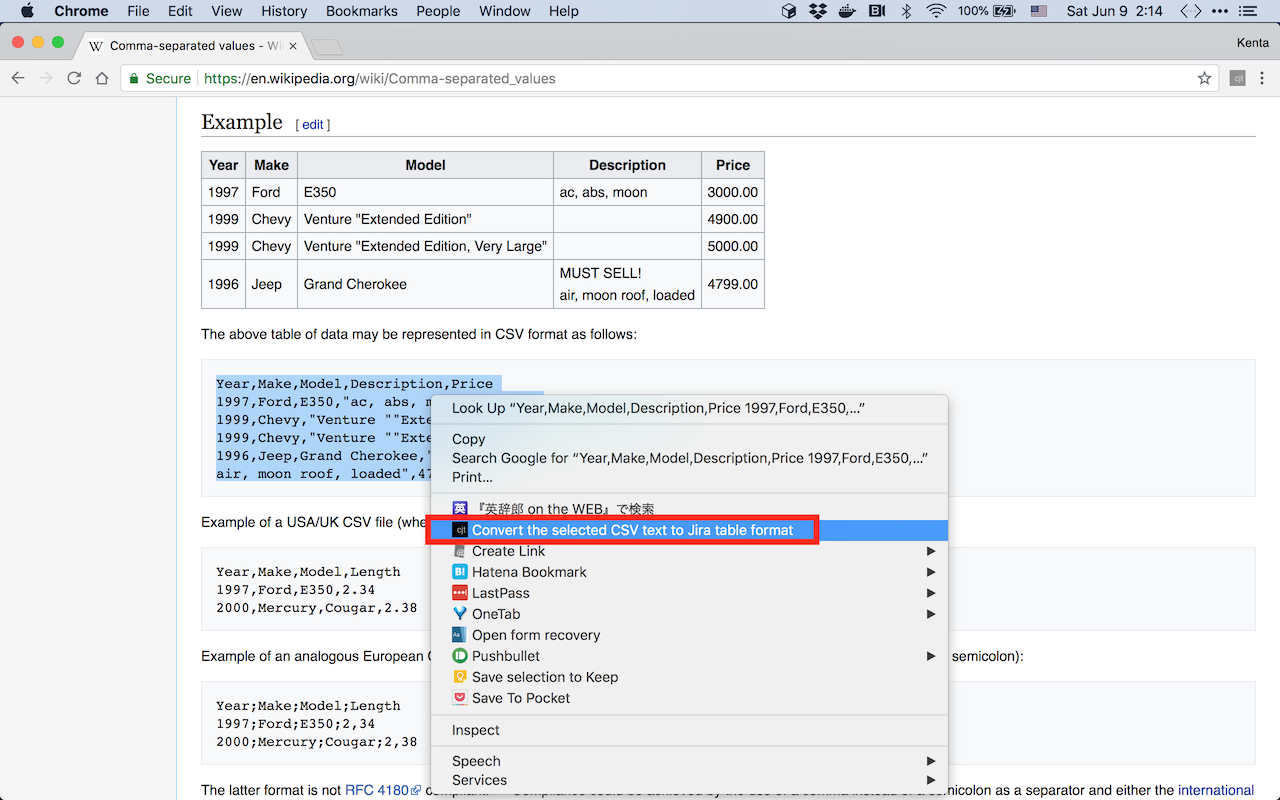
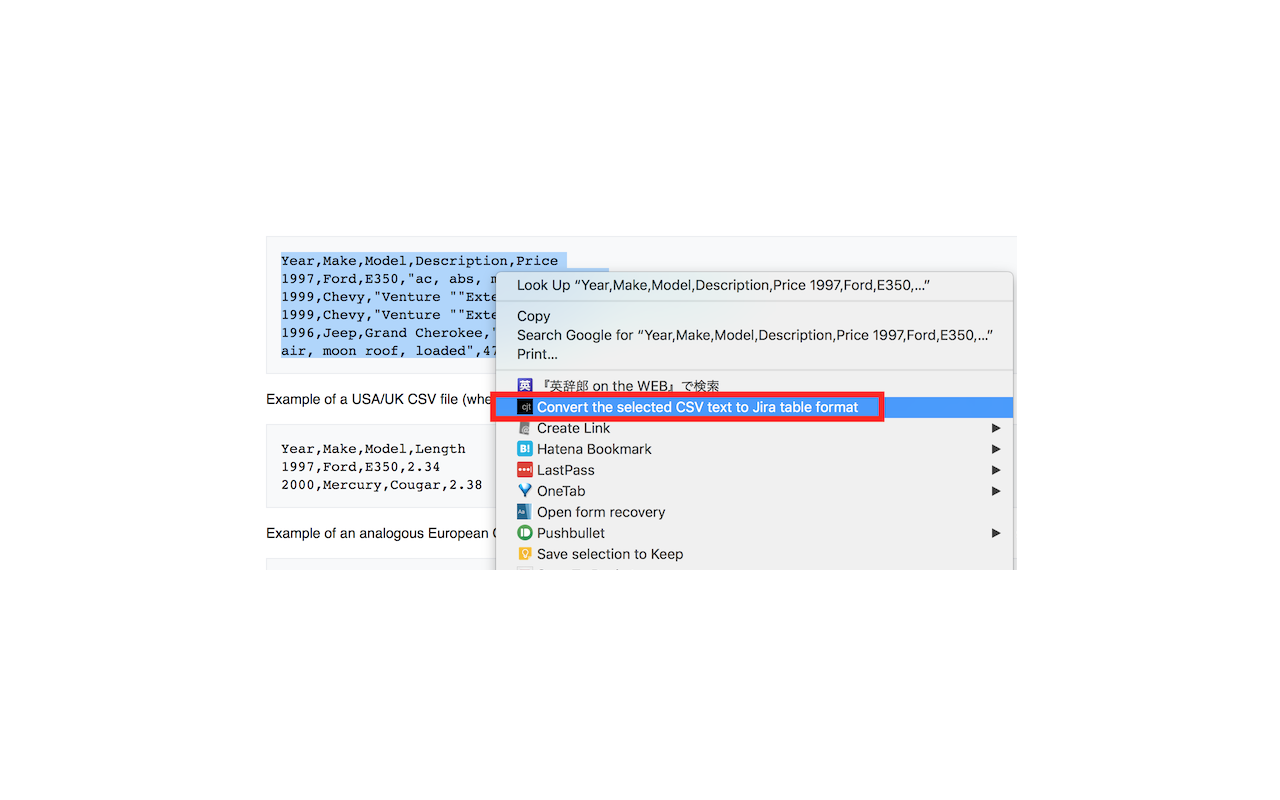
Updated readme

diff --git a/README.md b/README.md
@@ -1,9 +1,12 @@
 # cjt-crx
 [![Build Status](https://travis-ci.org/announce/cjt-crx.svg?branch=master)](https://travis-ci.org/announce/cjt-crx)
+[![Chrome Web Store](https://img.shields.io/chrome-web-store/v/nimelepbpejjlbmoobocpfnjhihnpked.svg)](https://chrome.google.com/webstore/detail/pagmnllnggjajagmlelanjlbompjelmd/)
 
 A Chrome extension to get Jira table notation in clipboard from selected CSV text.
 
 [cjt \- Chrome Web Store](https://chrome.google.com/webstore/detail/pagmnllnggjajagmlelanjlbompjelmd/publish-accepted)
+
+![Screenshot](https://github.com/announce/cjt-crx/blob/master/var/Screenshot%202018-06-09%2002.14.37.png?raw=true)
 
 ## Development
 
